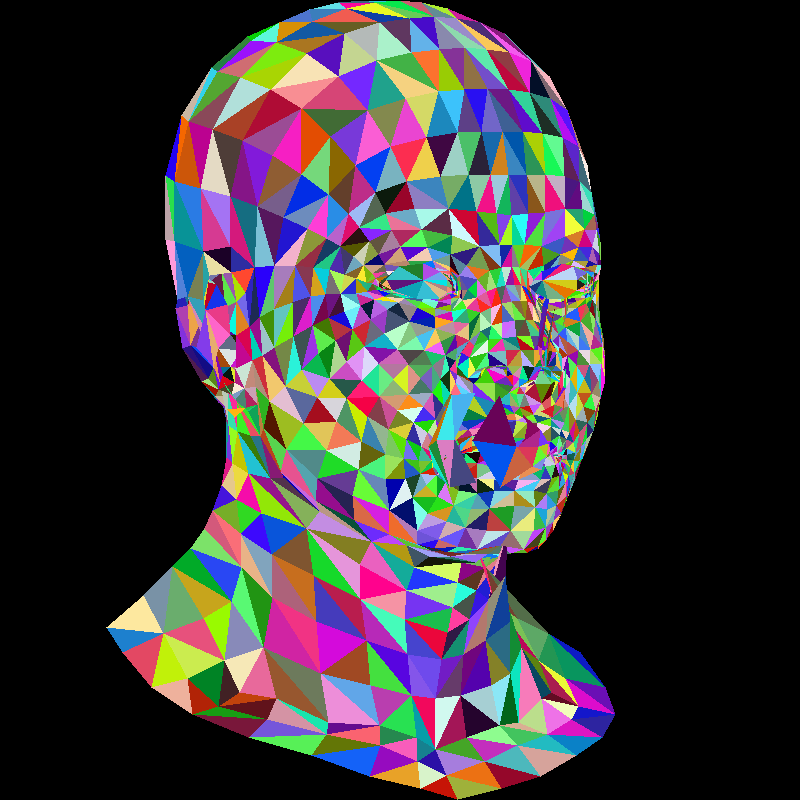
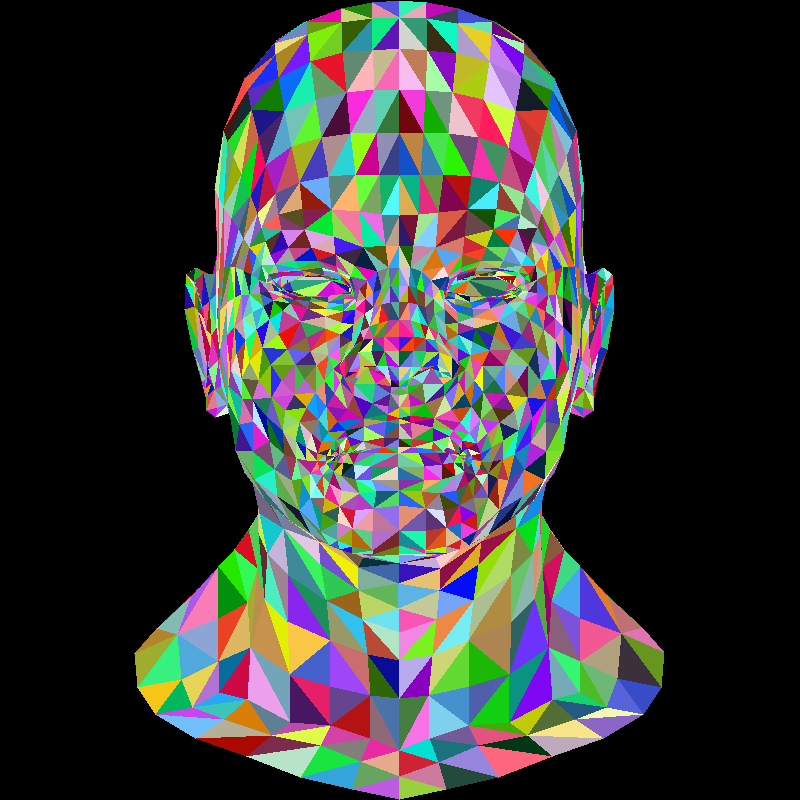
switch to nalgebra

diff --git a/crates/tinyrenderer/src/main.rs b/crates/tinyrenderer/src/main.rs
@@ -1,7 +1,6 @@
 #![allow(dead_code)]
-use image::{Pixel, Rgb, RgbImage, imageops::flip_vertical_in_place};
-use nalgebra::Matrix3;
-use rayon::prelude::*;
+use image::{GrayImage, Luma, Rgb, RgbImage, imageops::flip_vertical_in_place};
+use nalgebra::{Matrix3, Point2};
 use std::{f32::consts::PI, path::PathBuf};
 
 use wavefront::{Vertex, Wavefront};
@@ -17,107 +16,95 @@ const YELLOW: Rgb<u8> = Rgb([255, 200, 0]);
 const HEIGHT: u32 = 800;
 const WIDTH: u32 = 800;
 
-type Coord = (u32, u32);
+type Coord = Point2<u32>;
 
-fn find_bbox(a: Coord, b: Coord, c: Coord) -> (Coord, Coord) {
-    let xmin = *[a.0, b.0, c.0].iter().min().unwrap();
-    let ymin = *[a.1, b.1, c.1].iter().min().unwrap();
+fn bbox(a: Coord, b: Coord, c: Coord) -> (Coord, Coord) {
+    let xmin = *[a.x, b.x, c.x].iter().min().unwrap();
+    let ymin = *[a.y, b.y, c.y].iter().min().unwrap();
 
-    let xmax = *[a.0, b.0, c.0].iter().max().unwrap();
-    let ymax = *[a.1, b.1, c.1].iter().max().unwrap();
+    let xmax = *[a.x, b.x, c.x].iter().max().unwrap();
+    let ymax = *[a.y, b.y, c.y].iter().max().unwrap();
 
-    ((xmin, ymin), (xmax, ymax))
-}
-
-fn draw_bbox(img: &mut RgbImage, bbmin: Coord, bbmax: Coord, color: Rgb<u8>) {
-    for x in bbmin.0..bbmax.0 {
-        for y in bbmin.1..bbmax.1 {
-            img[(x, y)] = color;
-        }
-    }
+    (Coord::new(xmin, ymin), Coord::new(xmax, ymax))
 }
 
 fn signed_area(a: Coord, b: Coord, c: Coord) -> f32 {
-    let [(ax, ay), (bx, by), (cx, cy)] = [a, b, c].map(|(x, y)| (x as f32, y as f32));
+    let [a, b, c] = [a, b, c].map(|p| p.cast::<f32>());
 
-    0.5 * ((bx - ax) * (cy - ay) - (by - ay) * (cx - ax))
+    0.5 * ((b.x - a.x) * (c.y - a.y) - (b.y - a.y) * (c.x - a.x))
 }
 
-fn triangle(img: &mut RgbImage, a: Coord, b: Coord, c: Coord, color: Rgb<u8>) {
-    let (bbmin, bbmax) = find_bbox(a, b, c);
+fn triangle(
+    img: &mut RgbImage,
+    z_buffer: &mut GrayImage,
+    a: Vertex,
+    b: Vertex,
+    c: Vertex,
+    color: Rgb<u8>,
+) {
+    let [za, zb, zc] = [a, b, c].map(|v| v[2]); // z-coords
+
+    let [a, b, c] = [a, b, c].map(|v| Coord::new(v[0] as u32, v[1] as u32));
+
+    let (bbmin, bbmax) = bbox(a, b, c);
 
     let area_abc = signed_area(a, b, c);
 
-    if area_abc < 1.0 {
-        return;
-    }
+    // switch to non-parallelized version for simplicity
+    for x in bbmin.x..bbmax.x {
+        for y in bbmin.y..bbmax.y {
+            let p = Coord::new(x, y);
 
-    let buf = img.as_mut();
+            let alpha = signed_area(p, b, c) / area_abc;
+            let beta = signed_area(a, p, c) / area_abc;
+            let gamma = signed_area(a, b, p) / area_abc;
 
-    let stride = WIDTH as usize * Rgb::<u8>::CHANNEL_COUNT as usize * size_of::<u8>();
-
-    buf.par_chunks_mut(stride).enumerate().for_each(|(y, row)| {
-        if (bbmin.1..bbmax.1).contains(&(y as u32)) {
-            for x in bbmin.0..bbmax.0 {
-                let y = y as u32;
-                let p = (x, y);
-
-                let alpha = signed_area(p, b, c) / area_abc;
-                let beta = signed_area(a, p, c) / area_abc;
-                let gamma = signed_area(a, b, p) / area_abc;
-
-                if alpha >= 0.0 && gamma >= 0.0 && beta >= 0.0 {
-                    let idx = (x * 3) as usize;
-                    row[idx..idx + 3].copy_from_slice(&color.0);
-                }
+            let z = (alpha * za + beta * zb + gamma * zc).round() as u8;
+            if alpha >= 0.0 && gamma >= 0.0 && beta >= 0.0 && z >= z_buffer[(x, y)].0[0] {
+                img[(x, y)] = color;
+                z_buffer[(x, y)] = Luma([z]);
             }
         }
-    });
+    }
+}
+
+fn project_transform_scale(v: &Vertex) -> Vertex {
+    // orthogonal projection
+    // front view (looking down z-axis)
+    // [-1, 1] -> [0, 2]
+    let v = (v.x + 1.0, v.y + 1.0, v.z + 1.0);
+
+    // [0, 2] -> [0, W], [0, 2] -> [0, H]
+    let v = (
+        v.0 * (WIDTH - 1) as f32 / 2.0,
+        v.1 * (HEIGHT - 1) as f32 / 2.0,
+        v.2 * (255.0) / 2.0,
+    );
+
+    Vertex::new(v.0, v.1, v.2)
 }
 
 fn rot(v: &Vertex) -> Vertex {
     let angle = PI / 6.0;
 
+    #[rustfmt::skip]
     let mat = Matrix3::new(
-        f32::cos(angle),
-        0.0,
-        f32::sin(angle),
-        0.0,
-        1.0,
-        0.0,
-        -f32::sin(angle),
-        0.0,
-        f32::cos(angle),
+        f32::cos(angle), 0.0, f32::sin(angle),
+        0.0, 1.0, 0.0,
+        -f32::sin(angle), 0.0, f32::cos(angle),
     );
 
     mat * v
 }
 
-fn project_transform_scale(v: &Vertex) -> Coord {
-    // orthogonal projection
-    // front view (looking down z-axis)
-    let p = (v[0], v[1]);
-
-    // [-1, 1] -> [0, 2]
-    let p = (p.0 + 1.0, p.1 + 1.0);
-
-    // [0, 2] -> [0, W], [0, 2] -> [0, H]
-    let p = (
-        p.0 * (WIDTH - 1) as f32 / 2.0,
-        p.1 * (HEIGHT - 1) as f32 / 2.0,
-    );
-
-    (p.0.round() as u32, p.1.round() as u32)
-}
-
-fn draw_wavefront(img: &mut RgbImage, wavefront: &Wavefront) {
-    for [a, b, c] in wavefront.triangles() {
+fn draw_wavefront(img: &mut RgbImage, z_buffer: &mut GrayImage, wavefront: &Wavefront) {
+    for [a, b, c] in wavefront
+        .triangles()
+        .map(|t| t.map(project_transform_scale))
+    {
         let color: Rgb<u8> = Rgb(rand::random());
-        let a = project_transform_scale(&rot(a));
-        let b = project_transform_scale(&rot(b));
-        let c = project_transform_scale(&rot(c));
 
-        triangle(img, a, b, c, color);
+        triangle(img, z_buffer, a, b, c, color);
     }
 }
 
@@ -130,12 +117,16 @@ fn main() -> anyhow::Result<()> {
     let wavefront = Wavefront::read_from_file(&path)?;
 
     let mut img = RgbImage::new(WIDTH, HEIGHT);
+    let mut z_buffer = GrayImage::new(WIDTH, HEIGHT);
 
-    draw_wavefront(&mut img, &wavefront);
+    draw_wavefront(&mut img, &mut z_buffer, &wavefront);
 
     // because the tutorial uses a different coordinate system than ours
     flip_vertical_in_place(&mut img);
     img.save("out.png")?;
+
+    flip_vertical_in_place(&mut z_buffer);
+    z_buffer.save("zbuffer.png")?;
 
     Ok(())
 }

diff --git a/crates/tinyrenderer/src/wavefront.rs b/crates/tinyrenderer/src/wavefront.rs
@@ -1,7 +1,6 @@
-use std::{fs::File, io::Read, path::Path, slice::Iter};
+use std::{fs::File, io::Read, path::Path};
 
 use anyhow::Context;
-use image::write_buffer_with_format;
 use nalgebra::Point3;
 
 pub type Vertex = Point3<f32>;

diff --git a/log/6-rotation-and-matrices.md b/log/6-rotation-and-matrices.md
@@ -1,0 +1,49 @@
+---
+date: 03/03/2026
+crate: crates/tinyrenderer
+---
+---
+**Goals:**
+- continue with tinyrenderer
+- revisit matrices
+- rotation and projection
+---
+
+For this chapter, I've refactored the code to use primitives from the `nalgebra` crate. 
+
+First we'll try a basic rotation using a rotation matrix. 
+
+As an example, let's rotate the figure by 30 degrees along the y axis. 
+
+```rust
+fn rot(v: &Vertex) -> Vertex {
+    let angle = PI / 6.0;
+
+    #[rustfmt::skip]
+    let mat = Matrix3::new(
+        f32::cos(angle), 0.0, f32::sin(angle),
+        0.0, 1.0, 0.0,
+        -f32::sin(angle), 0.0, f32::cos(angle),
+    );
+
+    mat * v
+}
+```
+
+```rust
+fn draw_wavefront(img: &mut RgbImage, wavefront: &Wavefront) {
+    for [a, b, c] in wavefront.triangles() {
+        let color: Rgb<u8> = Rgb(rand::random());
+        let a = project_transform_scale(&rot(a));
+        let b = project_transform_scale(&rot(b));
+        let c = project_transform_scale(&rot(c));
+
+        triangle(img, a, b, c, color);
+    }
+}
+```
+
+
+
+| ![rotation-1.png](./media/rotation-1.png) | ![rotation-2.png](./media/rotation-2.png) |
+| ------------------- | ------------------- |

diff --git a/log/5-hidden-face-removal.md b/log/5-hidden-face-removal.md
@@ -1,5 +1,5 @@
 ---
-date: 02/03/2025
+date: 02/03/2026
 crate: crates/tinyrenderer
 ---
 ---
